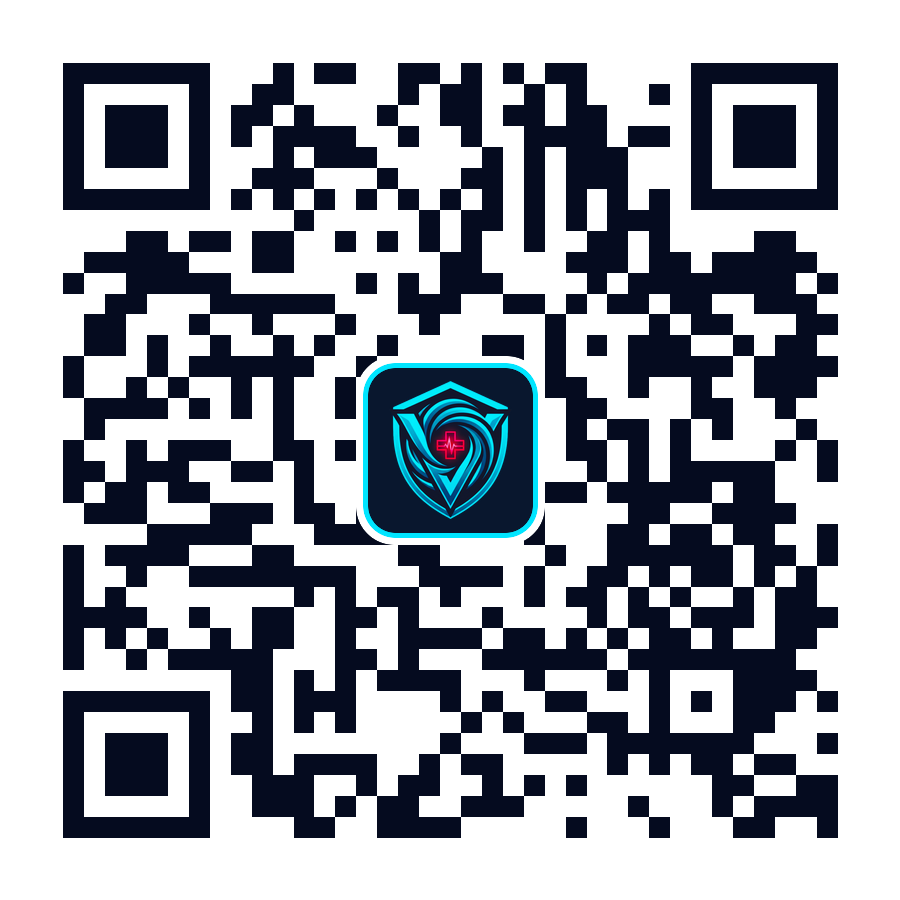
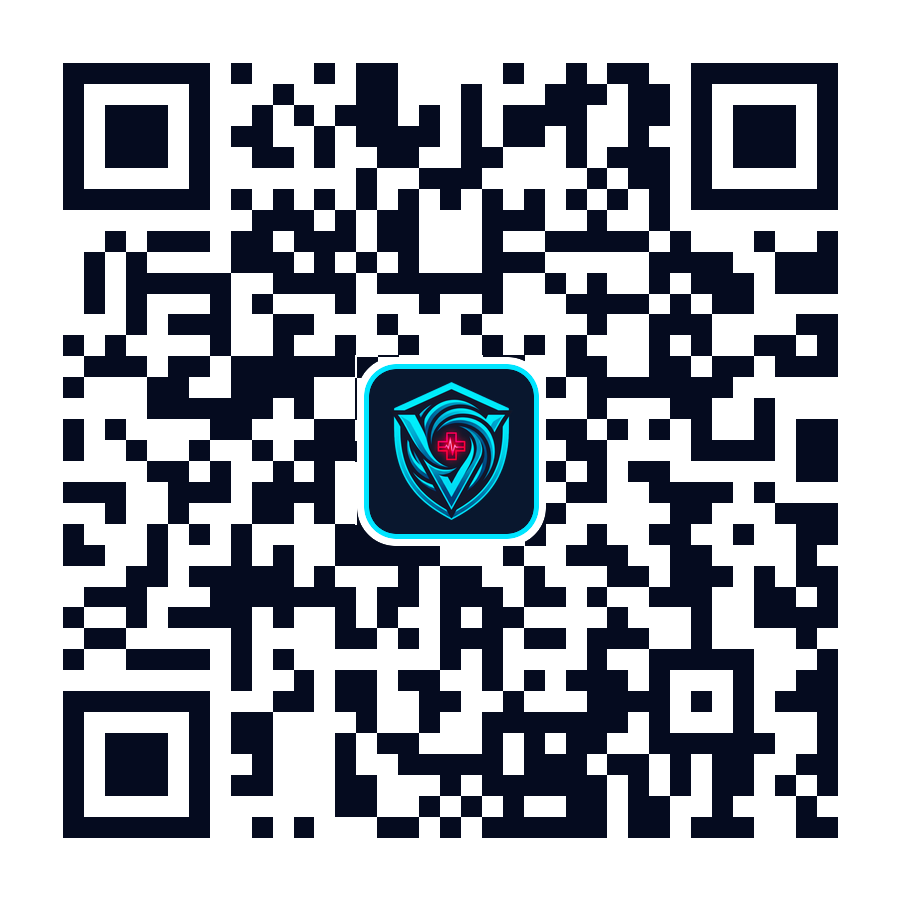
refactor: update branding to asistentesospuntaalta.netlify.app
Update domain references and application metadata from the previous URL to the new primary deployment URL across the UI, service worker, and configuration settings.

Changed region(s): [[0.0622, 0.0622, 0.9333, 0.9333], [0.4356, 0.4044, 0.56, 0.5911]]

diff --git a/src/components/InstallAppModal.tsx b/src/components/InstallAppModal.tsx
@@ -26,8 +26,8 @@ import {
 } from '../utils/systemConfig';
 import { usePWAInstall } from '../utils/usePWAInstall';
 
-const OFFICIAL_FUTURISTIC_QR_URL = '/assets/qr_vortex_id_futurista.png?v=38';
-const OFFICIAL_NETLIFY_URL = 'https://proyectososvortexid.netlify.app/';
+const OFFICIAL_FUTURISTIC_QR_URL = '/assets/qr_vortex_id_futurista.png?v=41';
+const OFFICIAL_NETLIFY_URL = 'https://asistentesospuntaalta.netlify.app/';
 
 interface InstallAppModalProps {
   isOpen: boolean;
@@ -176,7 +176,7 @@ export const InstallAppModal: React.FC<InstallAppModalProps> = ({
     }
     if (isInIframe) {
       setInstallHint(
-        'En esta vista previa embebida el navegador bloquea la descarga directa. Tocá el botón verde de arriba para abrir proyectososvortexid.netlify.app en una pestaña directa e instalarla en 1 toque.'
+        'En esta vista previa embebida el navegador bloquea la descarga directa. Tocá el botón verde de arriba para abrir asistentesospuntaalta.netlify.app en una pestaña directa e instalarla en 1 toque.'
       );
       return;
     }
@@ -443,7 +443,7 @@ export const InstallAppModal: React.FC<InstallAppModalProps> = ({
             {isInIframe && (
               <p className="text-[11px] text-cyan-100/90 bg-black/35 border border-cyan-400/40 rounded-xl p-2 leading-snug">
                 La vista previa embebida bloquea la descarga directa del navegador. Al abrir{' '}
-                <strong className="font-mono text-cyan-300">proyectososvortexid.netlify.app</strong>{' '}
+                <strong className="font-mono text-cyan-300">asistentesospuntaalta.netlify.app</strong>{' '}
                 en pestaña directa se habilita el botón de instalación en 1 toque.
               </p>
             )}
@@ -794,7 +794,7 @@ export const InstallAppModal: React.FC<InstallAppModalProps> = ({
                   1
                 </span>
                 <span>
-                  Abrí <strong className="text-white font-mono">proyectososvortexid.netlify.app</strong> en <strong className="text-white">Google Chrome</strong> o <strong className="text-white">Microsoft Edge</strong> desde tu computadora o notebook.
+                  Abrí <strong className="text-white font-mono">asistentesospuntaalta.netlify.app</strong> en <strong className="text-white">Google Chrome</strong> o <strong className="text-white">Microsoft Edge</strong> desde tu computadora o notebook.
                 </span>
               </li>
               <li className="flex items-start gap-2.5">

diff --git a/src/App.tsx b/src/App.tsx
@@ -976,7 +976,7 @@ export default function App() {
               <div className="flex items-center gap-1.5 shrink-0">
                 {isInIframe && !isInstallable ? (
                   <a
-                    href="https://proyectososvortexid.netlify.app/?instalar=1"
+                    href="https://asistentesospuntaalta.netlify.app/?instalar=1"
                     target="_blank"
                     rel="noopener noreferrer"
                     className="px-3 py-1.5 rounded-xl bg-gradient-to-r from-emerald-400 to-green-400 hover:brightness-110 text-gray-950 font-black text-xs shadow-md active:scale-95 transition whitespace-nowrap"
@@ -1418,12 +1418,12 @@ export default function App() {
 
       {/* Official Futuristic QR & Install App Banner for Users & Families */}
       {(() => {
-        const netlifyOrigin = 'https://proyectososvortexid.netlify.app';
+        const netlifyOrigin = 'https://asistentesospuntaalta.netlify.app';
         const activeTargetBase =
           systemConfig.customDomain && systemConfig.customDomain.trim().startsWith('http')
             ? systemConfig.customDomain.trim().replace(/\/+$/, '')
             : netlifyOrigin;
-        const bannerQrSrc = '/assets/qr_vortex_id_futurista.png?v=38';
+        const bannerQrSrc = '/assets/qr_vortex_id_futurista.png?v=41';
 
         return (
           <section className="my-5 p-4 sm:p-5 rounded-3xl bg-gradient-to-r from-[#071739] via-[#07243b] to-[#0a1f55] border-2 border-cyan-400/80 shadow-2xl">

diff --git a/public/qr.html b/public/qr.html
@@ -71,10 +71,10 @@
 </head>
 <body>
   <div class="card">
-    <img src="/assets/qr_vortex_id_futurista.png?v=38" alt="QR Oficial Vortex ID Punta Alta" />
+    <img src="/assets/qr_vortex_id_futurista.png?v=41" alt="QR Oficial Vortex ID Punta Alta" />
   </div>
   <div class="actions">
-    <a class="btn" href="/assets/qr_vortex_id_futurista.png?v=38" download="qr_oficial_vortex_id_punta_alta.png">
+    <a class="btn" href="/assets/qr_vortex_id_futurista.png?v=41" download="qr_oficial_vortex_id_punta_alta.png">
       Descargar QR (PNG HD)
     </a>
     <a class="btn btn-secondary" href="/">
@@ -82,7 +82,7 @@
     </a>
   </div>
   <p>
-    Escaneando este QR cualquier vecino ingresa a <strong>proyectososvortexid.netlify.app</strong> para cargar su ficha médica y generar su QR personal.
+    Escaneando este QR cualquier vecino ingresa a <strong>asistentesospuntaalta.netlify.app</strong> para cargar su ficha médica y generar su QR personal.
   </p>
 </body>
 </html>

diff --git a/src/components/SystemControlModal.tsx b/src/components/SystemControlModal.tsx
@@ -1536,7 +1536,7 @@ export const SystemControlModal: React.FC<SystemControlModalProps> = ({
                         type="url"
                         value={config.customDomain || ''}
                         onChange={(e) => handleChange('customDomain', e.target.value)}
-                        placeholder="https://proyectososvortexid.netlify.app"
+                        placeholder="https://asistentesospuntaalta.netlify.app"
                         className="w-full py-2 px-3 rounded-lg bg-[#05080F] border border-[#1C2A45] text-xs font-mono text-cyan-300 placeholder:text-slate-500 focus:outline-none focus:border-cyan-400"
                       />
                     </div>

diff --git a/public/sw.js b/public/sw.js
@@ -7,8 +7,8 @@
  * 4. Web Push Notifications for Critical Alerts
  */
 
-const STATIC_CACHE_NAME = 'vortexid-static-v40';
-const EMERGENCY_CACHE_NAME = 'vortexid-emergency-offline-v40';
+const STATIC_CACHE_NAME = 'vortexid-static-v41';
+const EMERGENCY_CACHE_NAME = 'vortexid-emergency-offline-v41';
 
 const PRECACHE_STATIC_ASSETS = [
   '/',
@@ -18,7 +18,7 @@ const PRECACHE_STATIC_ASSETS = [
   '/icon-512.png?v=36',
   '/apple-touch-icon.png?v=36',
   '/assets/aistudio/image__2__7d12aee0.png',
-  '/assets/qr_vortex_id_futurista.png?v=38'
+  '/assets/qr_vortex_id_futurista.png?v=41'
 ];
 
 const PRECACHE_EMERGENCY_APIS = [

diff --git a/src/utils/pushNotifications.ts b/src/utils/pushNotifications.ts
@@ -69,8 +69,8 @@ export function initPushNotifications(): Promise<ServiceWorkerRegistration | nul
         navigator.serviceWorker.addEventListener('controllerchange', () => {
           if (!hadController) return;
           try {
-            if (sessionStorage.getItem('vortex_sw_reloaded_v40')) return;
-            sessionStorage.setItem('vortex_sw_reloaded_v40', '1');
+            if (sessionStorage.getItem('vortex_sw_reloaded_v41')) return;
+            sessionStorage.setItem('vortex_sw_reloaded_v41', '1');
           } catch {
             // ignore
           }

diff --git a/src/utils/systemConfig.ts b/src/utils/systemConfig.ts
@@ -73,7 +73,7 @@ export function getEffectiveOrigin(): string {
     // fallback
   }
 
-  const PUBLIC_FALLBACK_URL = 'https://proyectososvortexid.netlify.app';
+  const PUBLIC_FALLBACK_URL = 'https://asistentesospuntaalta.netlify.app';
 
   if (typeof window !== 'undefined' && window.location && window.location.origin) {
     const currentOrigin = window.location.origin;
